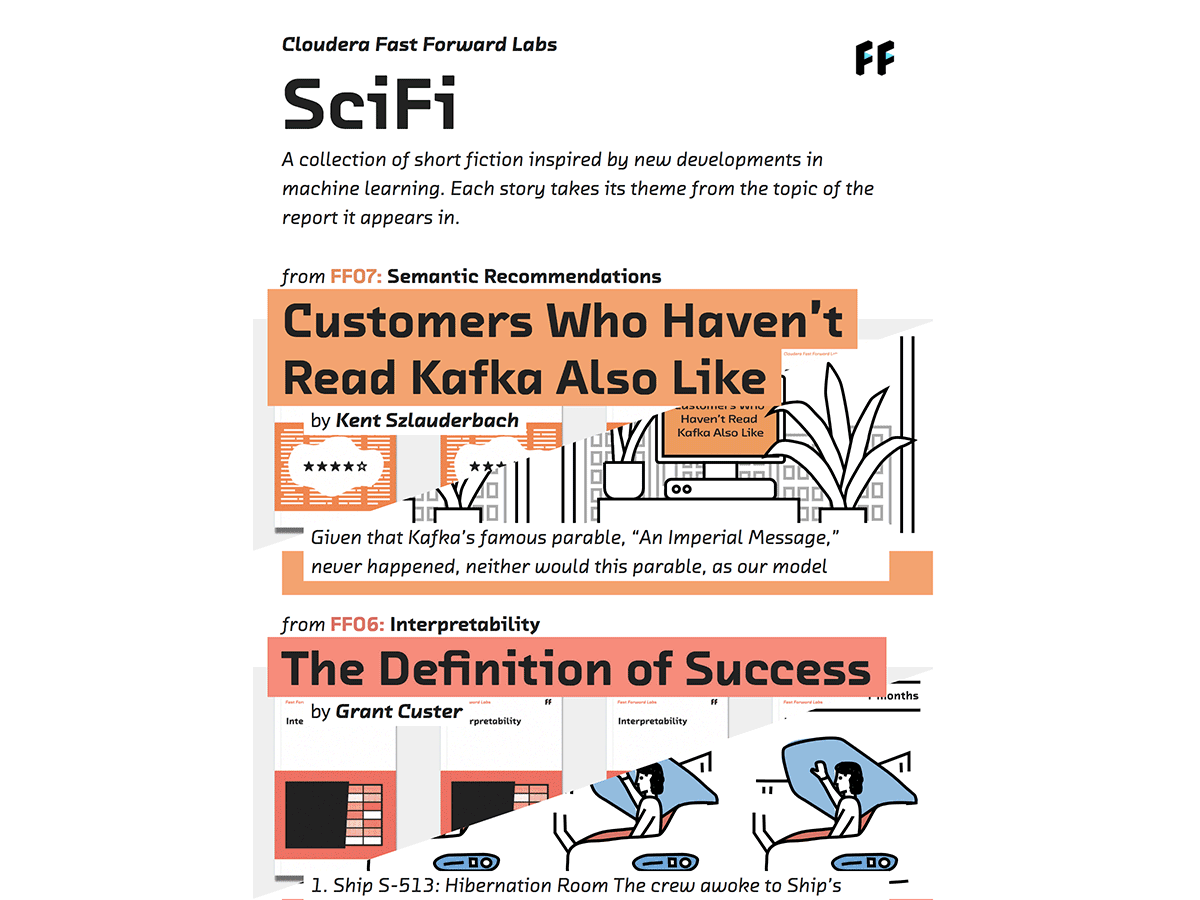
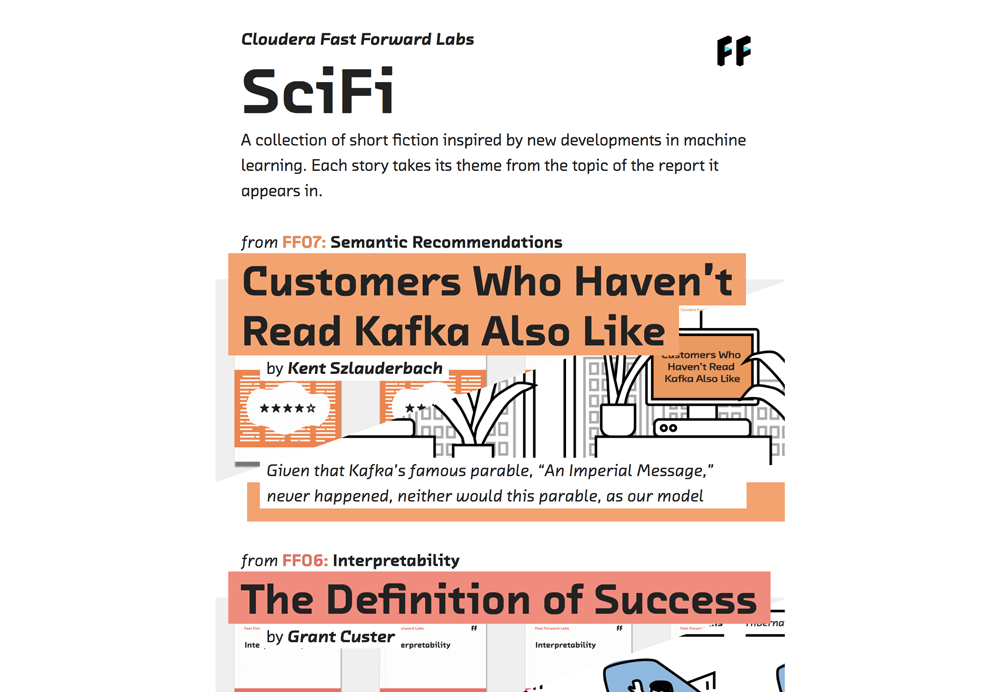
update share images

Changed region(s): [[0.217, 0.0303, 0.806, 1.0], [0.713, 0.0303, 0.775, 0.091]]

diff --git a/src/layouts/index.js b/src/layouts/index.js
@@ -96,6 +96,10 @@ export default class TemplateWrapper extends React.Component {
               name: 'twitter:description',
               content: description,
             },
+            {
+              name: 'twitter:image',
+              content: domain + '/cffl-scifi.png',
+            },
           ]}
           link={[
             {

diff --git a/src/templates/storyTemplate.js b/src/templates/storyTemplate.js
@@ -54,6 +54,10 @@ export default ({ data }) => {
             name: 'twitter:description',
             content: description,
           },
+          {
+            name: 'twitter:image',
+            content: image_preview,
+          },
         ]}
       />
       <ReportInfo frontmatter={frontmatter} fields={fields} />
